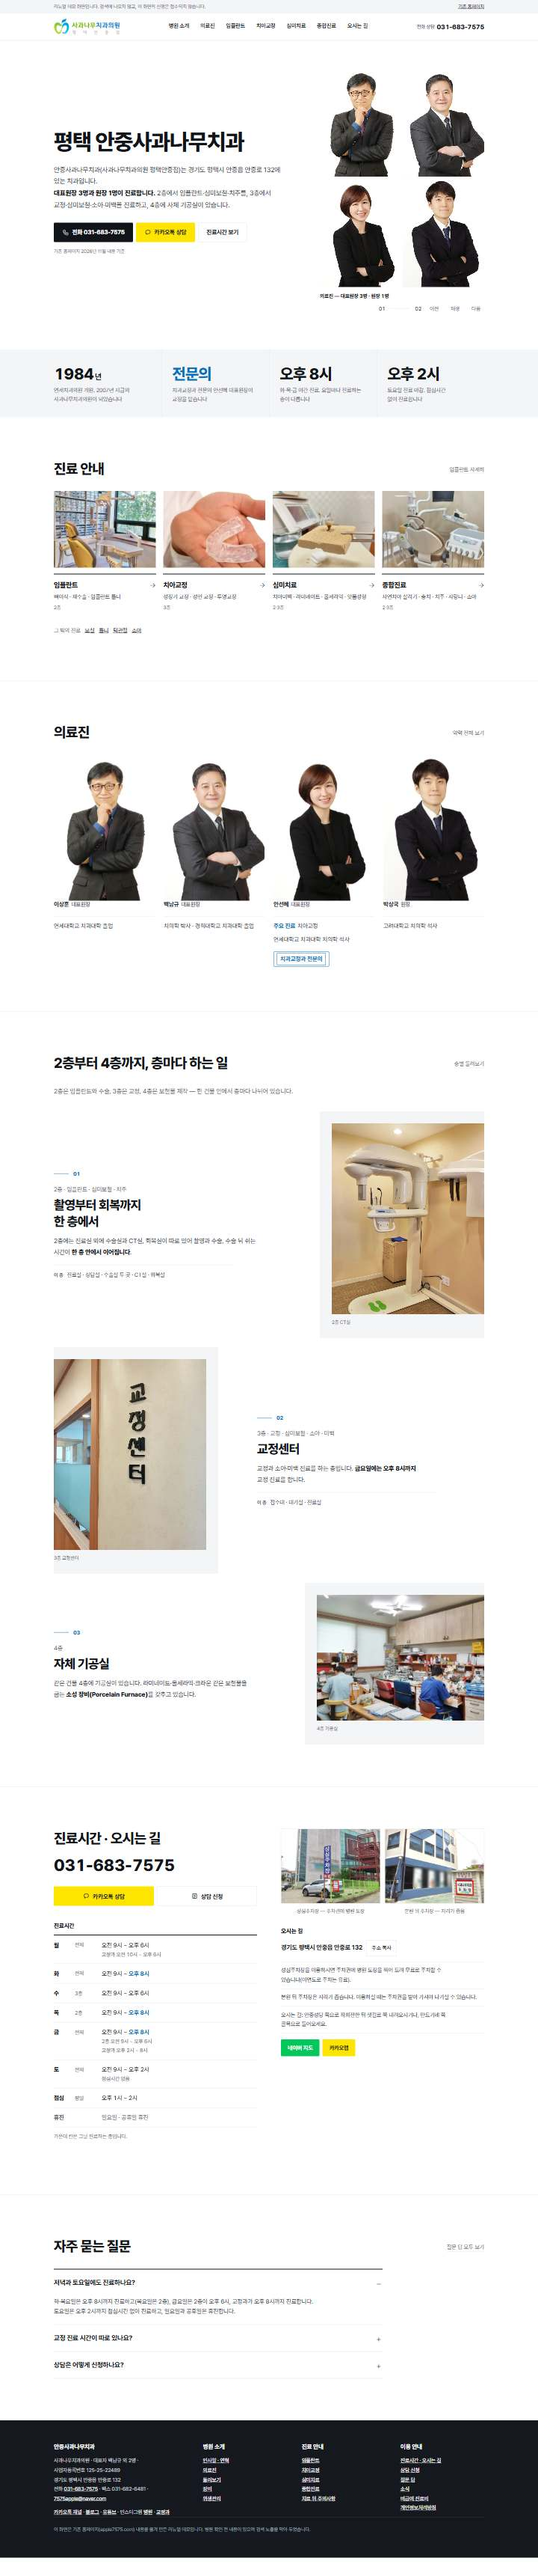
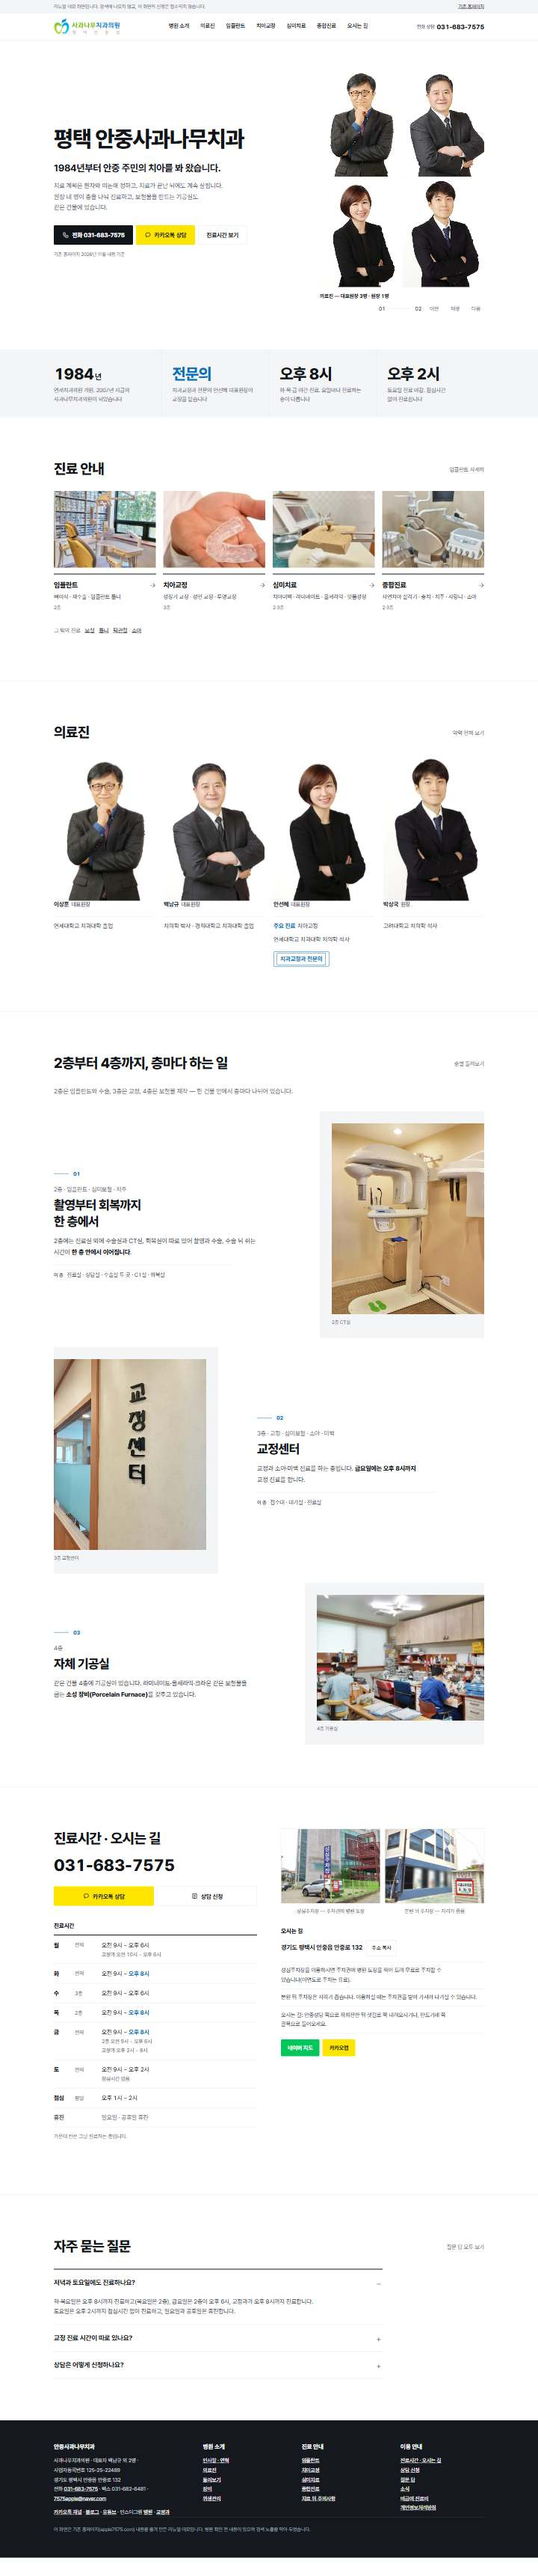
홈 첫 화면 브랜드 문장으로 교체, 목업·비교 캡처 갱신

Changed region(s): [[0.0917, 0.0311, 0.4583, 0.0933]]

diff --git a/mockup/index.html b/mockup/index.html
@@ -12,7 +12,7 @@
 <meta property="og:title" content="새 홈페이지 PC·휴대폰 화면 | 평택 안중사과나무치과">
 <meta property="og:description" content="안중사과나무치과 리뉴얼 데모의 실제 화면 — 첫 화면, 홈 전체, 임플란트·치아교정·오시는 길 쪽, 관리자를 PC와 휴대폰 크기로.">
 <meta property="og:url" content="https://kkwon91.github.io/anjung-appletree-demo/mockup/">
-<meta property="og:image" content="https://kkwon91.github.io/anjung-appletree-demo/share/img/og-mockup.jpg">
+<meta property="og:image" content="https://kkwon91.github.io/anjung-appletree-demo/share/img/og-mockup.jpg?v=1126b">
 <meta property="og:image:width" content="1200"><meta property="og:image:height" content="630">
 <meta name="theme-color" content="#ffffff">
 <link rel="preconnect" href="https://cdn.jsdelivr.net" crossorigin>
@@ -45,10 +45,10 @@
 
 <section class="sh-sec" id="full" aria-labelledby="full-h"><div class="sh-wrap">
   <h2 id="full-h">홈 전체</h2>
-  <p class="sh-sub">틀 안을 내려 보세요. PC는 절반 크기로 찍었습니다(실제 높이 6,883px, 휴대폰 9,355px).</p>
+  <p class="sh-sub">틀 안을 내려 보세요. PC는 절반 크기로 찍었습니다(실제 높이 6,883px, 휴대폰 9,333px).</p>
   <div class="dev">
     <figure class="win"><span class="win__bar">kkwon91.github.io/anjung-appletree-demo/</span><div class="scroll" tabindex="0" role="region" aria-label="PC 홈 전체 — 내려 보기"><img src="../share/img/new-home-pc-full.jpg" width="720" height="3442" alt="새 홈페이지 PC 홈 전체" loading="lazy" decoding="async"></div></figure>
-    <figure class="phone"><div class="scroll" tabindex="0" role="region" aria-label="휴대폰 홈 전체 — 내려 보기"><img src="../share/img/new-home-mo-full.jpg" width="390" height="9355" alt="새 홈페이지 휴대폰 홈 전체" loading="lazy" decoding="async"></div></figure>
+    <figure class="phone"><div class="scroll" tabindex="0" role="region" aria-label="휴대폰 홈 전체 — 내려 보기"><img src="../share/img/new-home-mo-full.jpg" width="390" height="9333" alt="새 홈페이지 휴대폰 홈 전체" loading="lazy" decoding="async"></div></figure>
   </div>
 </div></section>
 

diff --git a/compare/index.html b/compare/index.html
@@ -12,7 +12,7 @@
 <meta property="og:title" content="기존 홈페이지와 새 홈페이지 비교 | 평택 안중사과나무치과">
 <meta property="og:description" content="기존 홈페이지(apple7575.com)와 새 홈페이지 데모의 같은 쪽 다섯 곳을 PC·휴대폰으로 나란히. 같은 방법으로 잰 값: 구조화 데이터 0→53쪽, 의료광고 위험 표현 30→0곳.">
 <meta property="og:url" content="https://kkwon91.github.io/anjung-appletree-demo/compare/">
-<meta property="og:image" content="https://kkwon91.github.io/anjung-appletree-demo/share/img/og-compare.jpg">
+<meta property="og:image" content="https://kkwon91.github.io/anjung-appletree-demo/share/img/og-compare.jpg?v=1126b">
 <meta property="og:image:width" content="1200"><meta property="og:image:height" content="630">
 <meta name="theme-color" content="#ffffff">
 <link rel="preconnect" href="https://cdn.jsdelivr.net" crossorigin>
@@ -121,7 +121,7 @@
   </div>
   <div class="pair pair--mo">
     <div><p class="side side--old">기존 · 휴대폰</p><figure class="phone"><div class="scroll" tabindex="0" role="region" aria-label="기존 휴대폰 홈 전체 — 내려 보기"><img src="../share/img/old-home-mo-full.jpg" width="390" height="1485" alt="기존 홈페이지 휴대폰 홈 전체" loading="lazy" decoding="async"></div></figure></div>
-    <div><p class="side">새 · 휴대폰</p><figure class="phone"><div class="scroll" tabindex="0" role="region" aria-label="새 휴대폰 홈 전체 — 내려 보기"><img src="../share/img/new-home-mo-full.jpg" width="390" height="9355" alt="새 홈페이지 휴대폰 홈 전체" loading="lazy" decoding="async"></div></figure></div>
+    <div><p class="side">새 · 휴대폰</p><figure class="phone"><div class="scroll" tabindex="0" role="region" aria-label="새 휴대폰 홈 전체 — 내려 보기"><img src="../share/img/new-home-mo-full.jpg" width="390" height="9333" alt="새 홈페이지 휴대폰 홈 전체" loading="lazy" decoding="async"></div></figure></div>
   </div>
 </div></section>
 </main>

diff --git a/index.html b/index.html
@@ -35,7 +35,8 @@
   <div class="wrap hero__grid">
     <div>
       <h1 id="h1">평택 안중사과나무치과</h1>
-      <p class="hero__lead"><span class="dot-run"><span class="nw">안중사과나무치과(사과나무치과의원</span> <span class="nw">평택안중점)는</span> 경기도 평택시 안중읍 안중로 132에 있는 치과입니다.</span><br><strong class="em-b">대표원장 3명과 원장 1명이 진료합니다.</strong> <span class="dot-run">2층에서 <span class="nw">임플란트·</span><span class="nw">심미보철·</span>치주를, 3층에서 <span class="nw">교정·</span><span class="nw">심미보철·</span><span class="nw">소아·</span>미백을 진료하고, 4층에 자체 <span class="nw">기공실이 있습니다.</span></span></p>
+      <p class="hero__tag"><span class="dot-run">1984년부터 안중 주민의 치아를 <span class="nw">봐 왔습니다.</span></span></p>
+      <p class="hero__lead"><span class="dot-run">치료 계획은 환자와 의논해 정하고, 치료가 끝난 뒤에도 계속 살핍니다. 원장 네 명이 층을 나눠 진료하고, 보철물을 만드는 기공실도 같은 <span class="nw">건물에 있습니다.</span></span></p>
       <div class="btns"><a class="btn btn--ink" href="tel:031-683-7575"><svg viewBox="0 0 24 24" aria-hidden="true"><path d="M5 4h4l2 5-2.5 1.5a11 11 0 0 0 5 5L15 13l5 2v4a2 2 0 0 1-2 2A16 16 0 0 1 3 6a2 2 0 0 1 2-2"/></svg>전화 031-683-7575</a><a class="btn btn--kakao" href="https://pf.kakao.com/_xjNxkAl" target="_blank" rel="noopener"><svg viewBox="0 0 24 24" aria-hidden="true"><path d="M12 4c4.4 0 8 2.9 8 6.5S16.4 17 12 17c-.7 0-1.4-.1-2-.2L6 19l.9-3.3C5.1 14.6 4 12.7 4 10.5 4 6.9 7.6 4 12 4z"/></svg>카카오톡 상담</a><a class="btn btn--line" href="#visit">진료시간 보기</a></div>
       <p class="basis"><span class="dot-run">기존 홈페이지 2026년 11월 <span class="nw">내용 기준</span></span></p>
     </div>

diff --git a/assets/css/site.css b/assets/css/site.css
@@ -68,7 +68,8 @@ a { color: inherit; }
 .hero__grid { display: grid; grid-template-columns: 7fr 5fr; gap: 64px; align-items: center; }
 .hero__place { margin: 0 0 14px; font-size: 15px; font-weight: 700; color: var(--accent); }
 .hero h1 { margin: 0 0 24px; font-size: clamp(36px, 4.4vw, 60px); font-weight: 800; letter-spacing: -0.035em; line-height: 1.15; }
-.hero__lead { margin: 0 0 32px; font-size: 18px; line-height: 1.75; color: #2B323A; max-width: 34em; }
+.hero__tag { margin: 0 0 14px; font-size: clamp(21px, 1.9vw, 26px); font-weight: 700; line-height: 1.45; letter-spacing: -0.02em; color: var(--ink); max-width: 24em; }
+.hero__lead { margin: 0 0 32px; font-size: 17px; line-height: 1.75; color: #4A525C; max-width: 31em; }
 .hero__ph { margin: 0; max-width: 440px; justify-self: end; width: 100%; }
 .hero__frame { position: relative; aspect-ratio: 3 / 4; background: var(--soft); overflow: hidden; touch-action: pan-y; }
 .hero__slide { position: absolute; inset: 0; margin: 0; opacity: 0; transition: opacity 1s ease; }
@@ -579,7 +580,8 @@ body.has-cta { padding-bottom: 48px; }
   .sec-head { flex-direction: column; align-items: start; gap: 10px; }
   .hero { padding: 36px 0 56px; }
   .hero h1 { font-size: clamp(32px, 9vw, 40px); }
-  .hero__lead { font-size: 17px; }
+  .hero__tag { font-size: 20px; }
+  .hero__lead { font-size: 16px; }
   .hero__ph { max-width: none; }
   .hero__frame { aspect-ratio: 4 / 5; }
   .btns .btn { flex: 1 1 140px; }
